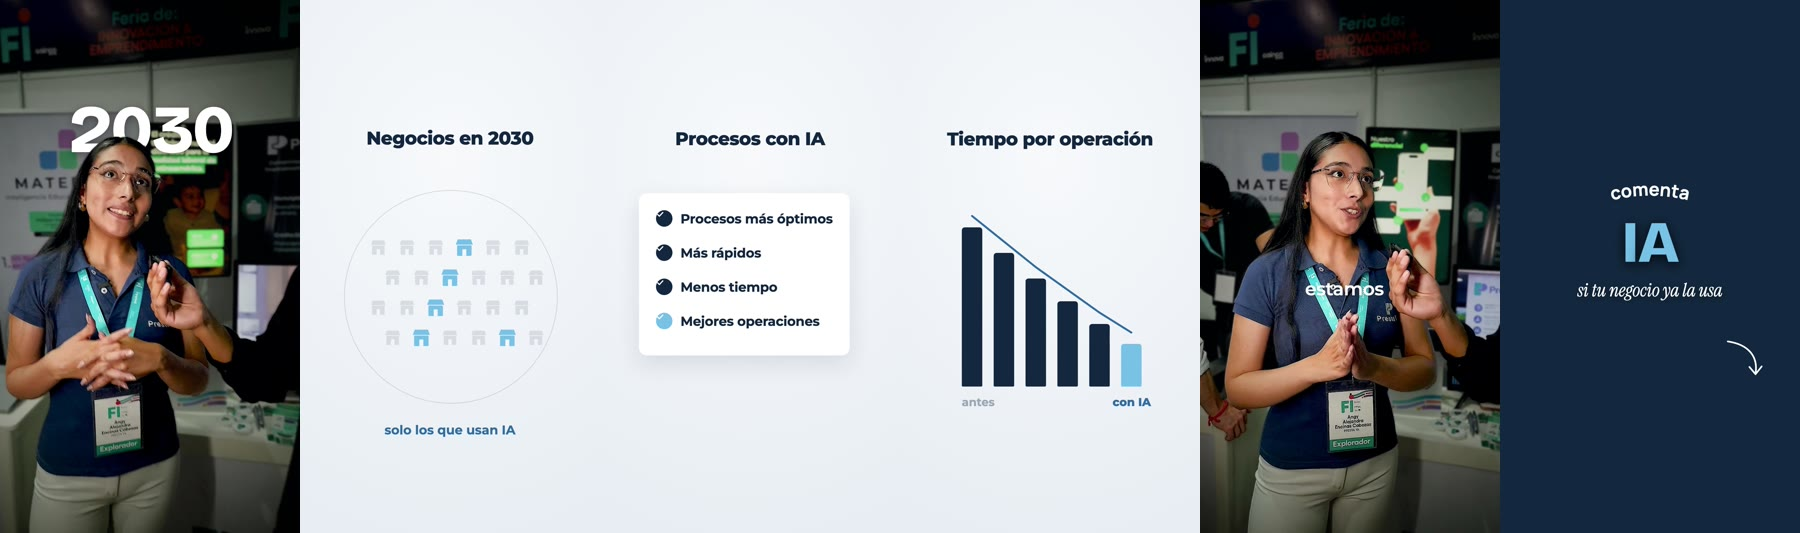
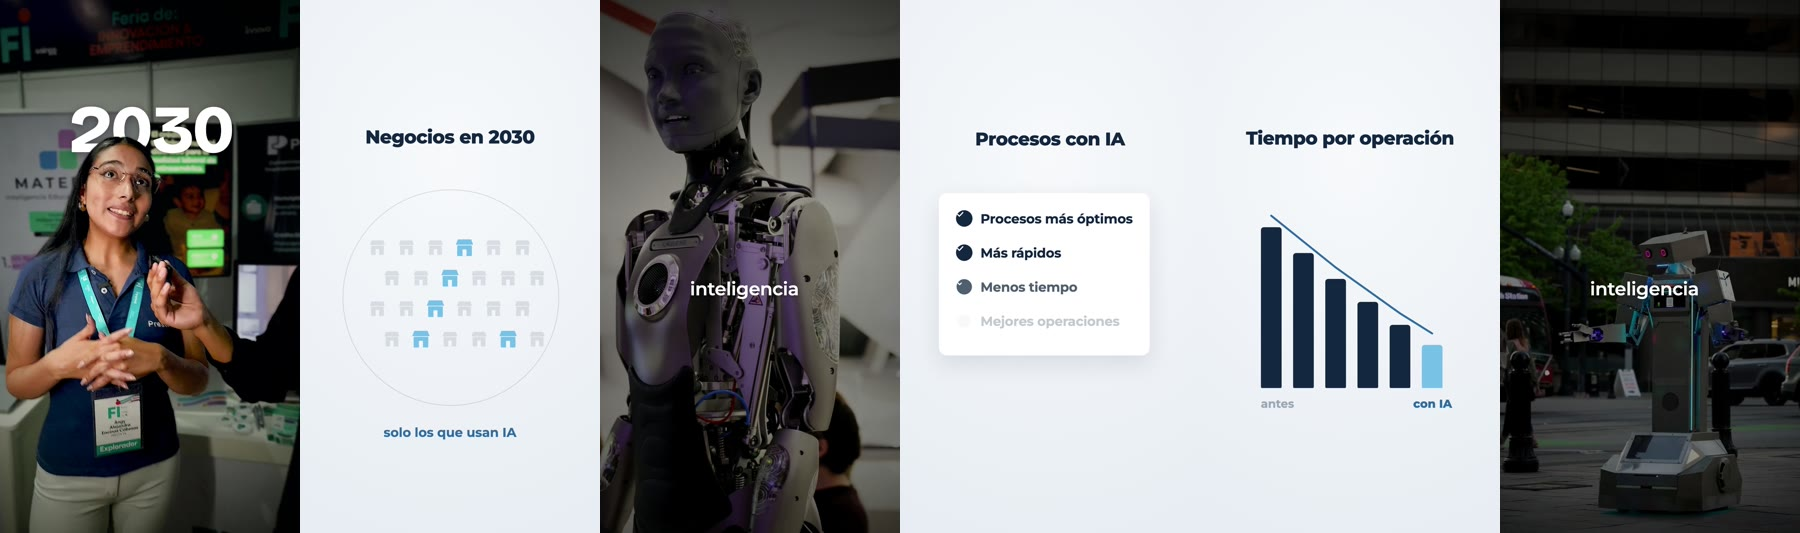
Fábrica nº4: tomas de apoyo alternadas y transiciones más fluidas

diff --git a/lib/fabrica-reels.ts b/lib/fabrica-reels.ts
@@ -1047,7 +1047,8 @@ export const FABRICA_BASE: ContenidoFabrica = {
             "Mitad cámara, mitad gráfico: cada 2–4 frases corta a un gráfico a pantalla completa que muestra lo que se dice.",
             "Gráficos limpios: fondo gris claro, tinta oscura y UN solo acento (él: rojo → nosotros: celeste #78c2e6 de la web).",
             "Tipos de gráfico: lista con checks, tarjetas de perfil, línea de tiempo, barras con tendencia, círculo de personas («tu mercado»), embudo, grilla saturada, tabla de métricas, botón.",
-            "Movimiento suave: los elementos entran de a uno, la cámara se acerca despacio y hay desenfoque de profundidad al entrar y salir.",
+            "Movimiento suave: los elementos entran de a uno, la cámara se acerca despacio y hay desenfoque de profundidad al entrar y salir (0,45 s de entrada, 0,35 s de salida).",
+            "Fluidez (Kev): cámara, gráfico y toma de apoyo se alternan; nunca más de 2–3 s de lo mismo.",
             "Adaptado a Reels: los gráficos se rediseñan en vertical; en cámara va el subtítulo de una palabra de la nº3.",
           ],
           paraKev: "Herramienta: escena-guion.html?estilo=explicador; en el guion, efecto «grafico» (forma: circulo, lista o barras; titulo; items; a, b; t2). Solo con palabras del propio video: nada de datos inventados.",
@@ -1056,7 +1057,7 @@ export const FABRICA_BASE: ContenidoFabrica = {
           nombre: "Prueba: video IA 2030",
           grupo: "Cómo se ve",
           url: "https://www.kevproject.world/fabrica",
-          datos: "Primera versión (v1) · 3 gráficos en 29 s",
+          datos: "Versión 2 · 3 gráficos y 4 tomas de apoyo alternados en 29 s",
           imagenes: ["/fabrica/ia/ia4-cuadros-v1.jpg"],
           ancho: true,
           puntos: [
@@ -1065,7 +1066,7 @@ export const FABRICA_BASE: ContenidoFabrica = {
             "«Tiempo por operación»: barras que bajan con la línea de tendencia celeste; «antes» → «con IA».",
             "Pasó la vista en TikTok, Reels y Shorts: nada tapado, margen y tamaño correctos.",
           ],
-          paraKev: "Archivo en el Drive «Pruebas edicion 100% Ai»: 2-ia-2030-especial4-v1.mp4. Para que se luzca: un video tuyo explicando tu oferta o tus números.",
+          paraKev: "Archivo en el Drive «Pruebas edicion 100% Ai»: 2-ia-2030-especial4-v2.mp4. Para que se luzca: un video tuyo explicando tu oferta o tus números.",
         },
       ],
     },
